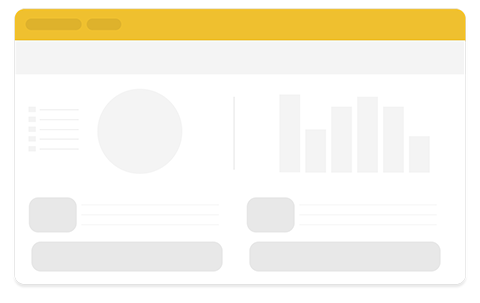
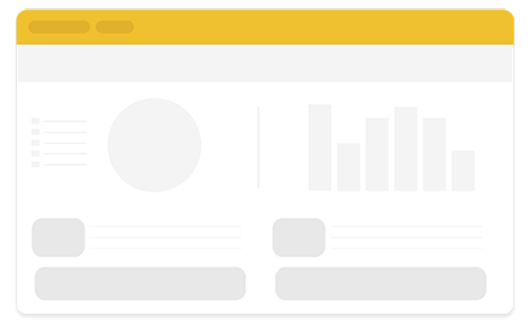
Estilizando Content.

Changed region(s): [[0.0312, 0.1188, 0.9688, 0.1485], [0.0625, 0.0, 0.9375, 0.0297]]

diff --git a/css/style.css b/css/style.css
@@ -16,7 +16,7 @@
 .menu li a {font-size: 1rem; font-weight: 400; line-height: 1.5; color: rgba(0,0,0,.5);}
 .menu li a:hover {color: #212529;}
 .menu li:nth-child(4) {margin-right: 35px;}
-button {padding: 0.5em; border: 1px solid white; border-radius: 5px; background: #ffc107; font-size: 1rem;
+.menu button {padding: 0.5em; border: 1px solid white; border-radius: 5px; background: #ffc107; font-size: 1rem;
 color: white;}
 button:hover {background: white; color: #212529; cursor: pointer; transition: .15s ease-in-out;}
 .header02 {display: flex;}
@@ -32,3 +32,23 @@ input[type="submit"]:hover {background: #007bff; cursor: pointer; transition: .1
 .icones-header p {margin-right: 5px; margin-top: 17px;}
 .icones-header i {border: 1px solid white; padding: 10px 12px; margin-right: 5px; color: white; border-radius: 5px;}
 .icones-header i:hover {background: white; color: #212529; cursor: pointer; transition: .15s ease-in-out;}
+/*==========CONTENT==========*/
+.content {padding: 4em 7.5em;}
+.content01, .content02, .content03 {display: flex; justify-content: space-between; border-bottom: 1px solid #e5e5e5;}
+.content01 img, .content02 img {margin-bottom: 60px;}
+.content01, .content02 {margin-bottom: 60px;}
+.content03 {margin-bottom: -40px;}
+.content03a {margin-bottom: 60px;}
+.content01a, .content02a {align-self: center;}
+.content01a h2, .content02a h2 {font-size: 2rem; margin-bottom: .5rem; font-family: inherit; font-weight: 500;line-height: 1.2; color: inherit;}
+.content01a p, .content02a p {font-size: 1rem; font-weight: 400; line-height: 1.5; color: #212529; text-align: left;
+margin-bottom: 1rem;}
+.content01a {margin-right: 50px;}
+.content02a {margin-left: 80px;}
+.content01a button, .content02 button {width: 100px; padding: .375rem .75rem; font-size: 1rem; background: #17a2b8; 
+color: white; border: none; border-color: #17a2b8; border-radius: 5px; line-height: 1.5;}
+.content01a button:hover, .content02 button:hover {background: #007bff; cursor: pointer; transition: .15s ease-in-out;}
+.content03a h4, .content03b h4, .content03c h4 {font-size: 1.5rem; margin-bottom: .5rem; font-family: inherit;font-weight: 500; line-height: 1.2; color: inherit;}
+.content03a p, .content03b p, .content03c p {font-size: 1rem; font-weight: 400; line-height: 1.5; color: #212529;
+text-align: left; margin-bottom: 1rem;}
+.content03a, .content03b {margin-right: 25px;}

diff --git a/index.html b/index.html
@@ -47,17 +47,17 @@
         <section class="content">
             <div class="content01">
                 <div class="content01a">
-                    <h1>Saiba para onde vai o seu dinheiro</h1>
+                    <h2>Saiba para onde vai o seu dinheiro</h2>
                     <p>Com o Finans, você categoriza todos os seus lançamentos. Com gráficos simples, você sabe de onde vem e para onde vai o seu dinheiro.</p>
                     <button type="submit">Veja mais</button>
                 </div>
                 <img src="img/saiba.png" alt="Saiba Mais">
             </div>
-
+            
             <div class="content02">
                 <img src="img/juros.png" alt="Juros">
                 <div class="content02a"> 
-                    <h1>Pare de pagar juros e economize</h1>
+                    <h2>Pare de pagar juros e economize</h2>
                     <p>Manter as contas em dia é sempre um problema? O Finans avisa você: receba alertas de contas a pagar e a receber!</p>
                     <button type="submit">Veja mais</button>
                 </div>
@@ -66,17 +66,17 @@
             <div class="content03">
                 <div class="content03a">
                     <img src="img/facil.png" alt="Fácil de Usar">
-                    <h1>Fácil de usar</h1>
+                    <h4>Fácil de usar</h4>
                     <p>O Finans vai além do básico e permite que você faça controles incríveis, essenciais para suas finanças. Simples como tem que ser!</p>
                 </div>
                 <div class="content03b">
                     <img src="img/economize.png" alt="Economize">
-                    <h1>Economize seu tempo</h1>
+                    <h4>Economize seu tempo</h4>
                     <p>Tempo é dinheiro! Em segundos, você tem tudo sob controle e aproveite seu tempo com o que realmente importa pra você!</p>
                 </div>
                 <div class="content03c">
                     <img src="img/suporte.png" alt="Suporte">
-                    <h1>Suporte amigo</h1>
+                    <h4>Suporte amigo</h4>
                     <p>Dúvidas? Perguntas? Nosso suporte super legal ajuda você! A gente tá aqui pra resolver seus problemas e deixar sua vida bem mais fácil!</p>
                 </div>
             </div>
